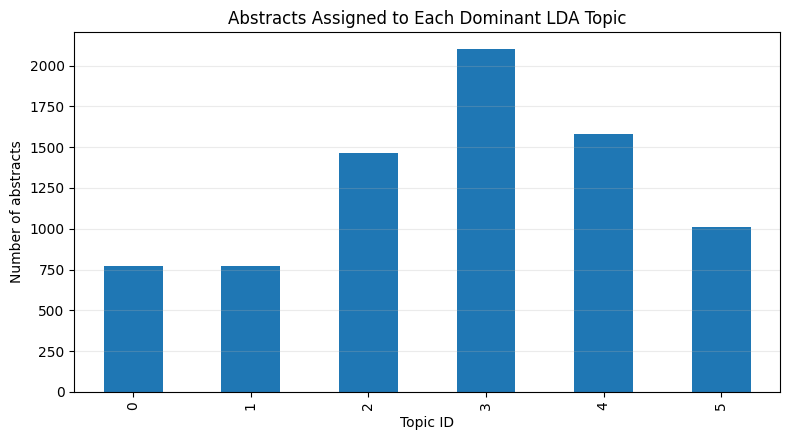
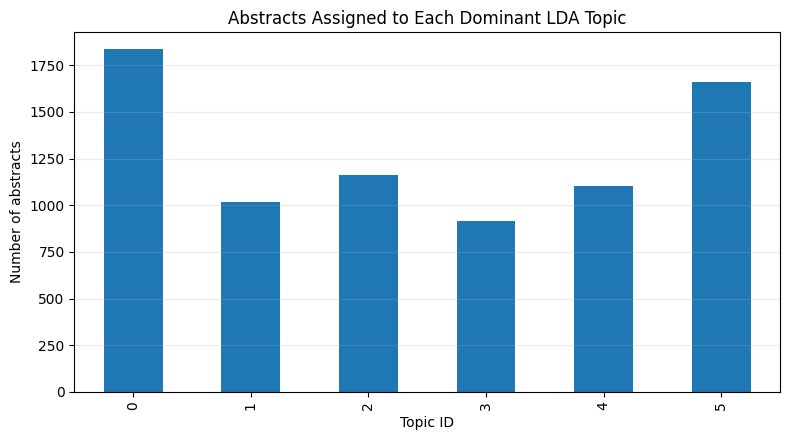
Update README and figures from the executed notebook
Add BERTopic, embedding, theme/model/method prevalence and monthly coverage
results; correct LDA table to the re-run; fix requirements.txt (broken
comment line, sentence-transformers/bertopic now required); add intro and
BERTopic caveat cells to the notebook.

Claude-Session: https://claude.ai/code/session_01EnjMivaFQXQnCFGU9Hx9JD

diff --git a/README.md b/README.md
@@ -1,65 +1,143 @@
 # arXiv AI/ML Research Abstracts: NLP Analysis
 
-Exploratory text analysis of **7,701 arXiv AI/ML paper abstracts** (27 Sep 2025 – 29 Apr 2026) with scikit-learn: cleaning, keyword and TF-IDF analysis, LDA topic modelling and TF-IDF similarity search. Optional sentence-embedding and BERTopic extensions are included but switched off.
+Text analysis of **7,701 arXiv AI/ML abstracts** (27 Sep 2025 – 29 Apr 2026) with scikit-learn, sentence-transformers and BERTopic: term and TF-IDF analysis, LDA, sentence embeddings, BERTopic, and keyword-based theme, model-family and method prevalence, with explicit checks on how uneven the collection is over time.
 
-**Notebook:** [`notebooks/arxiv_ai_ml_abstracts_nlp_analysis.ipynb`](notebooks/arxiv_ai_ml_abstracts_nlp_analysis.ipynb) (outputs saved, renders on GitHub)
+**Notebook:** [`notebooks/arxiv_ai_ml_advanced_nlp_research_notebook_cleaned.ipynb`](notebooks/arxiv_ai_ml_advanced_nlp_research_notebook_cleaned.ipynb) (executed, outputs saved)
+
+## Key results
+
+- **Evaluation and LLM work dominate this sample.** 40.1% of abstracts mention evaluation or benchmarks, 26.7% large language models and 15.8% reasoning. Reinforcement learning (7.4%) and transformers (7.0%) are the most-mentioned methods.
+- **Named models:** GPT/OpenAI (2.6%) and Qwen (2.6%) are the most-mentioned families, followed by Llama (1.7%), Gemini (1.3%) and Claude (1.1%).
+- **BERTopic finds 30+ coherent niches** beyond the broad LLM / vision themes, for example spiking neural networks, retrieval/RAG, recommendation, medical segmentation, agents, security, forecasting, bandits, protein/molecular, multilingual, federated privacy, EEG, speech and quantum. 34.5% of papers are outliers.
+- **The collection is very uneven in time** (78% of records are from April 2026), so none of the monthly patterns below should be read as research growth.
 
 ## Dataset
 
 | | |
 |---|---|
 | Source | [arXiv AI/ML Research Papers 2025-2026](https://www.kaggle.com/datasets/shree0910/arxiv-aiml-research-papers-20252026) on Kaggle (`arxiv_ai_ml_papers.csv`) |
-| Size | 7,701 rows × 26 columns, no duplicates, no missing abstracts |
-| Period | 27 Sep 2025 – 29 Apr 2026 (a time-bounded sample, not all of arXiv) |
+| Size | 7,701 rows × 26 columns; no duplicates, no missing abstracts |
+| Period | 27 Sep 2025 – 29 Apr 2026 |
 | Largest primary categories | cs.CV 18.4%, cs.LG 18.1%, cs.CL 14.5%, cs.RO 8.2%, cs.AI 7.2% |
 | Abstract length | mean 180.8, median 180 words (whitespace tokens of the cleaned text) |
 
-The CSV is not redistributed here; download it from Kaggle (see [Reproduce](#reproduce)).
+The CSV is not redistributed here; download it from Kaggle (see [Reproduce](#reproduce)). Category counts are quoted from the notebook's dataset-facts section.
+
+### Coverage by month
+
+| Month | Papers | Share of dataset |
+|---|---:|---:|
+| 2025-09 | 25 | 0.3% |
+| 2025-10 | 139 | 1.8% |
+| 2025-11 | 125 | 1.6% |
+| 2025-12 | 127 | 1.7% |
+| 2026-01 | 149 | 1.9% |
+| 2026-02 | 136 | 1.8% |
+| 2026-03 | 969 | 12.6% |
+| 2026-04 | 6,031 | 78.3% |
+
+![Monthly coverage](reports/figures/monthly_coverage.png)
 
 ## Method
 
-1. Load and audit the data (types, missingness, duplicates), auto-detect title / abstract / year columns
-2. Clean abstracts; compute length statistics
-3. Term and bigram frequencies (`CountVectorizer`) with extra domain stop words
-4. TF-IDF: mean-weighted distinctive terms and per-abstract top terms
-5. LDA topic model (6 topics, `random_state=42`) with representative abstracts per topic
-6. Phrase-mention shares by submission month (months with at least 100 records)
-7. TF-IDF cosine-similarity search over abstracts
-8. Export of cleaned data and result tables to CSV
-9. *Not run:* `sentence-transformers` embeddings with k-means, and BERTopic
+1. Load and audit the data; clean abstracts and compute length statistics
+2. Unigram and bigram frequencies (`CountVectorizer`) and TF-IDF with extra domain stop words
+3. LDA topic model (6 topics, `random_state=42`)
+4. TF-IDF cosine-similarity search
+5. Sentence embeddings (`all-MiniLM-L6-v2`, 7,701 × 384) with semantic search and k-means (k = 10)
+6. BERTopic (`min_topic_size=30`) on title + abstract embeddings
+7. Regex prevalence of research themes, named model families and methods
+8. Monthly dataset coverage and monthly theme shares
 
 ## Results
 
-### Most frequent terms
+### Frequent terms
+
 `models` (6,939), `model` (5,634), `framework` (4,559), `data` (4,365), `learning` (3,831), `performance` (3,701), `training` (2,839), `reasoning` (2,708).
 
 ![Top terms](reports/figures/top_terms.png)
 
-### LDA topics (dominant topic per abstract)
+### Research themes, model families and methods
 
-Topic labels below are my reading of the top terms, not model output; the notebook prints representative abstracts per topic for checking.
+Share of papers whose title or abstract matches a keyword pattern for each item (patterns are in the notebook).
 
-| Topic | Share | Top terms | Reading |
-|---|---|---|---|
-| 3 | 27.3% | learning, neural, networks, training, accuracy | Core deep learning and neural networks |
-| 4 | 20.5% | visual, image, semantic, datasets, experiments | Vision and multimodal |
-| 2 | 19.0% | reasoning, language models, LLMs, retrieval, generation | LLMs, reasoning and retrieval |
-| 5 | 13.1% | optimization, control, policy, robot, efficiency | Optimisation, control and robotics |
-| 0 | 10.1% | agents, user, systems, memory, human | Agents and human-AI systems |
-| 1 | 10.0% | evaluation, detection, clinical, safety, dataset | Evaluation, safety and applied/clinical |
+![Research themes](reports/figures/research_theme_prevalence.png)
+
+| Model family | Papers | Share |
+|---|---:|---:|
+| GPT / OpenAI | 197 | 2.56% |
+| Qwen | 196 | 2.55% |
+| Llama | 132 | 1.71% |
+| Gemini | 100 | 1.30% |
+| Claude / Anthropic | 83 | 1.08% |
+| Gemma | 60 | 0.78% |
+| DeepSeek | 50 | 0.65% |
+
+| Method | Papers | Share |
+|---|---:|---:|
+| Reinforcement learning | 567 | 7.36% |
+| Transformer architecture | 540 | 7.01% |
+| Vision-language models | 312 | 4.05% |
+| Pruning and sparsity | 257 | 3.34% |
+| Diffusion models | 198 | 2.57% |
+| Quantization | 131 | 1.70% |
+| LoRA / PEFT | 121 | 1.57% |
+
+![Model families](reports/figures/model_family_mentions.png) ![Methods](reports/figures/method_mentions.png)
+
+### BERTopic
+
+30+ topics, with 2,655 of 7,701 papers (34.5%) left as outliers. Topic sizes and the most informative keywords of the largest labelled topics:
+
+| Topic | Papers | Keywords |
+|---:|---:|---|
+| 2 | 314 | optimization, evolutionary, algorithm |
+| 3 | 310 | spiking, neural networks, neuromorphic |
+| 4 | 280 | retrieval, RAG, query, documents |
+| 7 | 199 | recommendation, user, item |
+| 8 | 190 | segmentation, clinical, medical |
+| 9 | 171 | agents, agent, skill |
+| 10 | 155 | safety, attack, security |
+| 11 | 111 | clinical, medical, patient |
+| 12 | 92 | forecasting, time series |
+| 14 | 86 | molecular, protein, discovery |
+| 15 | 83 | languages, multilingual, translation |
+| 18 | 73 | EEG, brain |
+| 19 | 65 | speech, ASR |
+| 20 | 63 | quantum, classical |
+
+Topics 0 (993 papers), 1 (689), 5 (238) and 25 (59) have labels made of stop words ("and", "the", "to") and cannot be named from keywords alone; the notebook explains why and how to fix it.
+
+![BERTopic word scores](reports/figures/bertopic_topic_word_scores.png)
+
+### LDA topics (6)
+
+Topic labels are my reading of the top terms, not model output.
+
+| Topic | Papers | Share | Top terms | Reading |
+|---:|---:|---:|---|---|
+| 0 | 1,835 | 23.8% | models, reasoning, language, LLMs, retrieval | LLMs and reasoning |
+| 5 | 1,661 | 21.6% | optimization, learning, problem, algorithm | Optimisation and learning theory |
+| 2 | 1,162 | 15.1% | evaluation, systems, AI, human, agents | Evaluation and AI systems |
+| 4 | 1,105 | 14.3% | visual, image, video, generation, motion | Vision and generation |
+| 1 | 1,020 | 13.2% | data, framework, performance, datasets | Generic ("data, framework, performance") |
+| 3 | 918 | 11.9% | neural, networks, training, accuracy | Neural network training |
 
 ![LDA topic sizes](reports/figures/lda_topic_sizes.png)
 
-### Abstract lengths
+### Monthly theme shares
 
-![Abstract length distribution](reports/figures/abstract_length_distribution.png)
+![Monthly theme prevalence](reports/figures/monthly_theme_trends.png)
+
+For example, the share of abstracts mentioning large language models is 28.0% in Sep 2025 (n = 25), 8.7% in Dec 2025, 19.9% in Mar 2026 and 29.3% in Apr 2026 (n = 6,031). These are shares within very different sample sizes, so the pattern describes the sample, not the field.
 
 ## Limitations
 
-- **No long-term trend claims.** The collection window is under eight months, and the "2025" year label holds only 416 late-2025 records against 7,285 for 2026, so year-on-year comparisons are meaningless. The notebook therefore compares submission *months* (first and last month are partial) and treats the shares as descriptive only.
-- **Pending refresh.** The monthly counts, monthly phrase shares, final summary and dataset-facts cells were added after the original Kaggle run and still need to be executed on the real CSV; their outputs are empty until then.
-- Keyword mentions do not prove a topic is a paper's main contribution.
-- LDA on bag-of-words with generic words such as "model" and "framework" gives overlapping topics. Treat them as a first pass; the embedding and BERTopic sections are the intended next step.
+- **Uneven coverage.** 78% of records are from April 2026 and September 2025 has 25. Early months are noisy and the April-dominated sample can differ in composition from earlier months. No growth or decline claims are supported.
+- **Keyword patterns are crude.** A model name or phrase in an abstract does not mean it was used or evaluated. Some patterns are broad: "Evaluation and benchmarks" matches common words, and the safety pattern includes the bare word "alignment", which also appears in non-safety contexts such as multimodal alignment.
+- **LDA is unstable and generic.** Re-running the notebook gave different topic sizes from an earlier run with the same seed (for example 1,835 vs 1,462 papers in the largest LLM-related topic), most likely due to library versions. Generic words ("model", "framework", "data") dominate several topics.
+- **BERTopic labels need work.** Stop words are not removed in the topic vectorizer, so several labels are uninformative, and a third of papers are outliers.
+- **No validation yet.** The k-means clusters and BERTopic topics were not scored (no coherence or silhouette metric) and were not checked against human labels.
 - Results describe this sample only, not arXiv as a whole.
 
 ## Reproduce
@@ -70,10 +148,10 @@ cd Analyze-Research-Paper-Abstracts-Using-Data-Science-and-NLP
 python -m venv .venv && source .venv/bin/activate
 pip install -r requirements.txt
 # download arxiv_ai_ml_papers.csv from Kaggle into notebooks/ (or set FILE_PATH in the first code cell)
-jupyter lab notebooks/arxiv_ai_ml_abstracts_nlp_analysis.ipynb
+jupyter lab notebooks/arxiv_ai_ml_advanced_nlp_research_notebook_cleaned.ipynb
 ```
 
-For the optional sections, install `sentence-transformers` (and `bertopic`) and set `RUN_EMBEDDINGS = True` / `RUN_BERTOPIC = True`.
+The embedding and BERTopic sections download `all-MiniLM-L6-v2` on first run and take several minutes on CPU.
 
 ## Author
 
